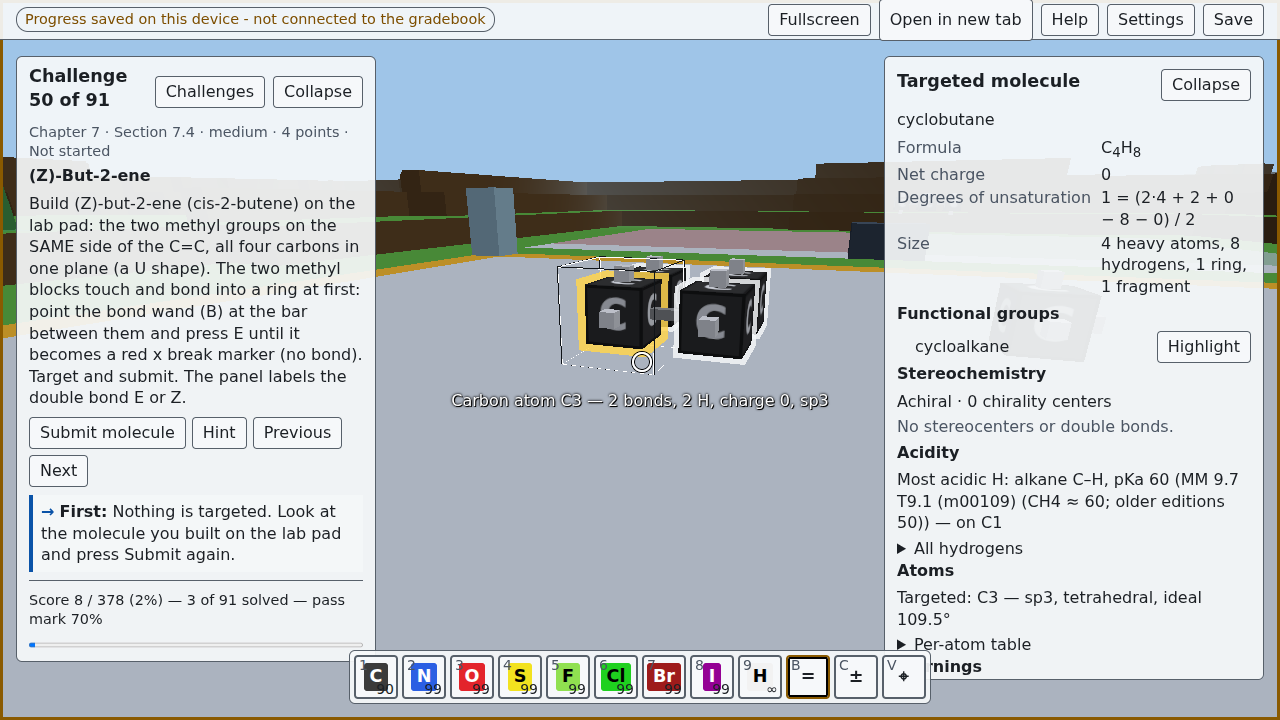
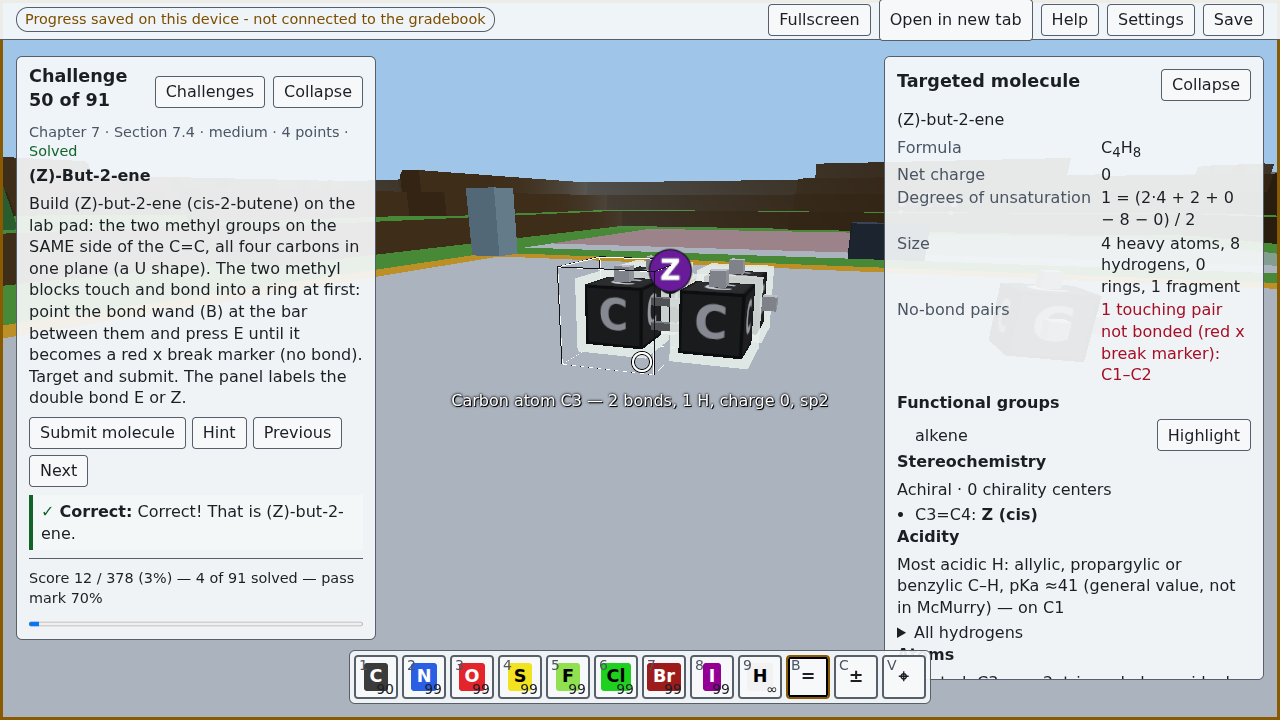
WIP: smoke-test fixes, README and CI in progress
Snapshot of files being edited by the fix agent. Not yet verified.

Claude-Session: https://claude.ai/code/session_01Dujs4MypqNpsyCserQqQVu

diff --git a/src/app/Game.ts b/src/app/Game.ts
@@ -353,8 +353,9 @@ export class Game {
     this.frameMs.push(dt * 1000);
     const inp = this.input.consumeFrame();
     const paused = this.state.paused;
+    let deferred: readonly InputAction[] = [];
     if (!paused) {
-      this.handlePressed(inp.pressed, inp.wheel);
+      deferred = this.handlePressed(inp.pressed, inp.wheel);
       const s = this.settings;
       this.camera.addLook(inp.lookDX * s.sensitivity, inp.lookDY * s.sensitivity * (s.invertY ? -1 : 1));
       this.camera.addLook(-inp.keyLook.yaw * s.turnRate * dt, -inp.keyLook.pitch * 0.6 * s.turnRate * dt);
@@ -384,6 +385,7 @@ export class Game {
     this.updateTarget();
     this.syncComponents();
     this.runAnalyses(ANALYSIS_BUDGET_MS);
+    if (deferred.length > 0) this.handleTargetActions(deferred);
     this.syncBench();
     this.chunks.rebuildDirty(this.world, this.player, this.renderer.profile.chunkRebuildsPerFrame);
     if (this.sceneDirty) {
@@ -511,27 +513,39 @@ export class Game {
     } else if (h.kind === 'hydrogen' && index.atoms.has(h.cell)) {
       component = index.componentOf(h.cell);
     } else {
-      if (h.kind === 'bond') pair = h.pair;
-      const { eye } = this.eyeAndDir();
-      let best = TARGET_RADIUS * TARGET_RADIUS;
-      let bestId: ComponentId | null = null;
-      for (const [id, cells] of index.components()) {
-        for (const c of cells) {
-          const [x, y, z] = parseCellKey(c);
-          const dx = x + 0.5 - eye[0];
-          const dy = y + 0.5 - eye[1];
-          const dz = z + 0.5 - eye[2];
-          const d = dx * dx + dy * dy + dz * dz;
-          if (d < best || (d === best && bestId !== null && id < bestId)) {
-            best = d;
-            bestId = id;
+      if (h.kind === 'bond') {
+        pair = h.pair;
+        // 09 §1.10, §5.5: a bond bar or break marker is targeted through the molecule that contains the pair -- the
+        // previous target when it holds either endpoint (a suppressed pair may join two components), otherwise the
+        // lower-cellIndex endpoint's component -- never a nearer, unrelated molecule.
+        const [a, b] = splitPairKey(h.pair);
+        const ca = index.atoms.has(a) ? index.componentOf(a) : null;
+        const cb = index.atoms.has(b) ? index.componentOf(b) : null;
+        const prev = this.state.target.component;
+        component = prev !== null && (prev === ca || prev === cb) ? prev : (ca ?? cb);
+      }
+      if (component === null) {
+        const { eye } = this.eyeAndDir();
+        let best = TARGET_RADIUS * TARGET_RADIUS;
+        let bestId: ComponentId | null = null;
+        for (const [id, cells] of index.components()) {
+          for (const c of cells) {
+            const [x, y, z] = parseCellKey(c);
+            const dx = x + 0.5 - eye[0];
+            const dy = y + 0.5 - eye[1];
+            const dz = z + 0.5 - eye[2];
+            const d = dx * dx + dy * dy + dz * dz;
+            if (d < best || (d === best && bestId !== null && id < bestId)) {
+              best = d;
+              bestId = id;
+            }
           }
         }
-      }
-      if (bestId !== null) component = bestId;
-      else {
-        const prev = this.state.target.component;
-        component = prev !== null && index.components().has(prev) ? prev : null;
+        if (bestId !== null) component = bestId;
+        else {
+          const prev = this.state.target.component;
+          component = prev !== null && index.components().has(prev) ? prev : null;
+        }
       }
     }
     this.state.setTarget(component, cell, pair);
@@ -607,9 +621,15 @@ export class Game {
     this.highlight.flashRefusal();
   }
 
-  private handlePressed(pressed: readonly InputAction[], wheel: number): void {
+  /**
+   * Every pressed action except mine/place (06 §10.4: those run against the fresh hover in applyActions) and the
+   * two target-dependent ones, `analyze` and `submit`, which are returned and run by handleTargetActions once this
+   * frame's hover, target, components and analyses are refreshed.
+   */
+  private handlePressed(pressed: readonly InputAction[], wheel: number): InputAction[] {
+    const deferred: InputAction[] = [];
     const hud = this.hud;
-    if (!hud) return;
+    if (!hud) return deferred;
     const state = this.state;
     for (const a of pressed) {
       if (state.finished && a !== 'pause' && a !== 'help' && a !== 'debug') continue;
@@ -630,13 +650,7 @@ export class Game {
             this.events.emit('settings:changed', { key: 'showHydrogens', value: next.showHydrogens });
           }
           break;
-        case 'analyze': {
-          const t = state.target.component;
-          if (t !== null) { this.queue.delete(t); this.runOne(t); }
-          this.events.emit('analyze:requested', { component: t });
-          break;
-        }
-        case 'submit': state.submit(); break;
+        case 'analyze': case 'submit': deferred.push(a); break;
         case 'nextChallenge': state.nextChallenge(); break;
         case 'prevChallenge': state.prevChallenge(); break;
         case 'clearSelection': state.clearSelection(); break;
@@ -651,6 +665,27 @@ export class Game {
       for (let i = 0; i < Math.abs(wheel); i++) {
         if (hud.select.active) hud.select.cycle(step);
         else state.cycleSlot(step);
+      }
+    }
+    return deferred;
+  }
+
+  /**
+   * `analyze` (F) and `submit` (Enter) judge the molecule the player is looking at in THIS frame: they run after
+   * updateTarget / syncComponents / runAnalyses, never against the previous frame's target. Otherwise a target that
+   * changed between frames (the player moved, the world was edited -- e.g. through the debug API) is evaluated one
+   * frame stale; after a bench challenge that submitted the product-zone molecule to a pad challenge and answered
+   * "nothing targeted". The panel's Submit button calls state.submit() directly (06 §14.5) and is unaffected.
+   */
+  private handleTargetActions(pressed: readonly InputAction[]): void {
+    const state = this.state;
+    for (const a of pressed) {
+      if (a === 'analyze') {
+        const t = state.target.component;
+        if (t !== null) { this.queue.delete(t); this.runOne(t); }
+        this.events.emit('analyze:requested', { component: t });
+      } else if (a === 'submit') {
+        state.submit();
       }
     }
   }

diff --git a/index.html b/index.html
@@ -10,7 +10,7 @@
   </head>
   <body>
     <a class="skip" href="#canvas">Skip to the game</a>
-    <div id="stage" data-framed="false">
+    <main id="stage" data-framed="false">
       <canvas id="canvas" tabindex="0" role="application" aria-label="OrgoCraft 3D world. Press H for controls, Escape to open the menu, Tab to leave the world. Arrow keys look, W A S D move."></canvas>
       <div id="hud" data-ready="false">
         <div id="toolbar" role="toolbar" aria-label="Game toolbar"></div>
@@ -28,7 +28,7 @@
       <div id="status" class="sr-only" role="status" aria-live="polite" aria-atomic="true"></div>
       <section id="scene-mirror" class="sr-only" aria-label="Scene description"></section>
       <pre id="debug" hidden aria-hidden="true"></pre>
-    </div>
+    </main>
     <div id="no-webgl" hidden role="alert">OrgoCraft needs WebGL, which this browser has turned off. Try another browser, or update your graphics driver.</div>
     <script type="module" src="./src/main.ts"></script>
   </body>

diff --git a/src/ui/quiz-panel.ts b/src/ui/quiz-panel.ts
@@ -144,7 +144,9 @@ export function mountQuizPanel(root: HTMLElement, ctx: HudContext): QuizPanel {
     clearChildren(feedback);
     feedback.dataset['tone'] = tone;
     feedback.append(h('span', { class: 'glyph', 'aria-hidden': 'true' }, glyph), ' ', h('b', null, prefix), ` ${message}`);
-    ctx.announceSticky(`${prefix} ${message}`);
+    // Not announced from here: the challenge panel announces every result exactly once (07 §9.5, §16.1) and this
+    // dialog only mirrors it. A second sticky copy of the same text queued behind the first and delayed every later
+    // polite message by at least one LIVE_POLITE_MS window.
     refreshAttempts();
     if (result.passed) {
       setLocked(true);

diff --git a/README.md b/README.md
@@ -1,0 +1,133 @@
+# OrgoCraft
+
+OrgoCraft is a browser game in the style of Minecraft for a first-semester college organic chemistry course (McMurry, *Organic Chemistry*, chapters 1-11). Students build molecules out of atom blocks on a lab pad, the game analyzes what they built (formula, functional groups, hybridization, R/S and E/Z, acidity) and grades it against a roster of challenges; a reaction bench applies the McMurry reagent set to a reactant and asks the student to build or predict the product. It runs entirely in the browser (Vite, TypeScript, Three.js) with no server and is delivered inside a D2L Brightspace course, either as a plain course file or as a SCORM 1.2 package that reports a score to the gradebook.
+
+Audience: students in Organic Chemistry I and the instructor who uploads it. The instructor-facing steps are in [`docs/INSTRUCTOR.md`](docs/INSTRUCTOR.md); the scope decisions are in [`docs/SCOPE.md`](docs/SCOPE.md).
+
+## Chapter coverage (McMurry 1-11)
+
+| Chapter | Topic | In the game |
+| --- | --- | --- |
+| 1 | Structure and bonding, hybridization, geometry | Per-atom sp/sp2/sp3, geometry and bond angles in the molecule panel; build challenges; quiz questions |
+| 2 | Acids and bases, formal charge | pKa rules, "select the most acidic hydrogen" challenges, the charge tool, conjugate-base challenges |
+| 3 | Alkanes, functional groups, IUPAC names | Functional-group detection, name-to-structure challenges, molecular formula |
+| 3, 4 | Constitutional isomers, cycloalkanes | Isomer-set challenges (C4H10, C5H12, C6H14, C4H8, C4H9Br), degrees of unsaturation |
+| 5 | Stereochemistry at tetrahedral centers | R/S from CIP priorities computed on the 3D grid; enantiomer, diastereomer and meso challenges |
+| 7 | Alkenes, E/Z, Markovnikov | E/Z from grid geometry, alkene naming and stability challenges |
+| 8 | Alkene addition reactions | Reaction bench: HX, X2, halohydrin, hydration, oxymercuration, hydroboration, hydrogenation, hydroxylation, cleavage, radical HBr |
+| 9 | Alkynes | Reaction bench: HX, X2, hydration, hydroboration, Lindlar, Li/NH3, acetylide alkylation |
+| 10 | Organohalides | Naming and preparation challenges |
+| 11 | SN1, SN2, E1, E2 | Reaction bench decision table; predict-product and choose-reagent challenges |
+
+Aromaticity, resonance, conformations, spectroscopy and arrow-pushing mechanisms are out of scope for v1. Odd-membered rings cannot be built on a cubic lattice, so cyclopropanation and epoxidation products are excluded from the roster.
+
+Two touching atom blocks bond automatically. The bond wand cycles a bond through single, double, triple and *no bond* (a red x break marker between the blocks), which is how substituents on the same side of a Z-alkene stay apart. See `docs/design/09-amendment-no-bond.md`.
+
+## Controls
+
+The single-letter keys work only while the 3D view (the canvas) has focus; Tab leaves it. All keys except Escape, Tab and F3 can be remapped in Settings.
+
+| Action | Keys |
+| --- | --- |
+| Move, jump, sprint | W A S D, Space, Shift |
+| Look | Mouse (captured, or drag when capture is unavailable), arrow keys |
+| Mine / remove a block | Q or left button |
+| Place an atom, use the current tool, open the bench | E or right button |
+| Element slots (C N O S F Cl Br I, H) | 1-9 |
+| Bond wand, charge tool, select tool | B, C, V |
+| Cycle hotbar slots (or select-mode candidates) | Mouse wheel, `[` `]` |
+| Analyze the targeted molecule (spoken summary) | F |
+| Submit the current challenge | Enter |
+| Next / previous challenge | `.` / `,` |
+| Hint, challenge list, help, reaction bench | I, L, H, R |
+| Show or hide hydrogens | T |
+| Clear the selection (select mode) | Backspace |
+| Pause menu, release the mouse | Escape |
+| Debug overlay | F3 |
+
+The HUD panels, dialogs and the pause menu are keyboard-operable; two live regions announce results and tool changes to screen readers, and a scene description mirrors the targeted molecule as text.
+
+## Running locally
+
+Requirements: Node 22 and npm.
+
+```sh
+npm install
+npm run dev        # Vite dev server, open the printed URL
+```
+
+Append `?debug=1` to the URL to expose `window.__orgocraft` (teleport, place, wand, goToChallenge, state) for scripting.
+
+## Testing
+
+```sh
+npm run typecheck  # tsc --noEmit, strict
+npm test           # vitest: chemistry, reactions, content, world, LMS adapter, packaging
+```
+
+The smoke test drives the *built* game in headless Chromium through `window.__orgocraft`, in standalone mode and inside a fake SCORM 1.2 wrapper, and fails on any console error, uncaught exception, failed step, or serious/critical axe-core violation. It serves `dist/` under a deep D2L-style path so the relative-base build is exercised.
+
+```sh
+npm run build
+npm run smoke
+```
+
+Chromium is located through `CHROMIUM_PATH` (or `CHROME_PATH`), then `$PLAYWRIGHT_BROWSERS_PATH/chromium-*`, then `/opt/pw-browsers/chromium-*` and `~/.cache/ms-playwright`. To install one with the pinned Playwright version: `npx playwright install chromium`. The run writes `test-results/smoke.png` and `docs/screenshots/smoke.png`.
+
+## Building and packaging for D2L
+
+```sh
+npm run build          # dist/ with relative asset paths
+npm run check:paths    # fails if anything in dist/ is referenced by an absolute path
+npm run package:d2l    # release/orgocraft-v<version>-d2l.zip    (Path A: course file, no grade)
+npm run package:scorm  # release/orgocraft-v<version>-scorm12.zip (Path B: SCORM 1.2, grade item)
+npm run release        # the four steps above
+```
+
+The version, pass mark and the list of disabled challenges come from `orgocraft.config.json`. Uploading the zips into Brightspace, creating the grade item and what the score means are described step by step in [`docs/INSTRUCTOR.md`](docs/INSTRUCTOR.md). CI (`.github/workflows/build.yml`) runs typecheck, tests, build, path check, both packages and the smoke test on every push and attaches the zips to a GitHub release on a `vX.Y.Z` tag that matches the config version.
+
+## Folder layout
+
+```
+index.html                 static page skeleton (canvas, HUD containers, live regions)
+orgocraft.config.json      version, pass mark, disabled challenges
+src/
+  main.ts                  entry point: WebGL check, Game start
+  app/                     Game (composition root and frame loop), State (UI-facing state), Settings, events
+  chem/                    pure chemistry: SMILES, graph, analysis, naming, stereo (CIP, R/S, E/Z), acidity, embedding
+  reactions/               pure reaction bench: additions, alkynes, substitution/elimination, oxidation, radicals
+  content/                 molecule library, challenge roster, reagent cards, acceptance and feedback (JSON + TS)
+  world/                   voxel world, chunks, mesher, raycast, molecule index (bonds, charges, suppressed pairs)
+  player/                  physics and first-person camera
+  input/                   key map, input manager, pointer lock and look modes
+  render/                  Three.js renderers: chunks, atoms, bonds and break markers, ghosts, highlights, overlays
+  ui/                      HUD: panels, hotbar, quiz, bench, pause menu, help, settings, live regions, strings, CSS
+  lms/                     SCORM 1.2 adapter, progress model, local storage
+  util/                    noise, PRNG, throttle, vec3
+test/                      vitest suites, mirroring src/
+scripts/                   smoke.mjs, package-d2l.mjs, package-scorm.mjs, check-relative-paths.mjs
+scorm/                     imsmanifest template and the SCORM 1.2 XSDs
+public/                    static assets copied into dist/
+tools/reference/           Python reference implementations used to derive the chemistry fixtures
+docs/                      SCOPE.md, INSTRUCTOR.md, design/, research/, screenshots/
+```
+
+## Design documents
+
+The design set in `docs/design/` is the specification the code follows; `09` overrides the others where they conflict.
+
+| File | Covers |
+| --- | --- |
+| `00-contracts.md` | Shared types and the frozen module contracts |
+| `01-work-packages.md` | Work package split and file ownership |
+| `02-chemistry-core.md` | SMILES, graphs, hydrogens, functional groups, hashing, isomorphism, embedding |
+| `03-stereo-acidity-hybridization.md` | CIP, R/S and E/Z on the grid, hybridization, formal charge, pKa engine |
+| `04-reaction-bench.md` | Reagent set, reaction rules, bench flow |
+| `05-content.md` | Molecule library, challenge roster, acceptance rules, feedback text |
+| `06-engine.md` | World, player, input, rendering, game loop, debug API, smoke test steps |
+| `07-ui.md` | HUD, panels, dialogs, focus and live-region policy, strings |
+| `08-deployment.md` | SCORM adapter, persistence, packaging, instructor guide, CI |
+| `09-amendment-no-bond.md` | "No bond" between touching blocks: index, wand cycle, break marker, content |
+| `10-integration-notes.md` | Integration notes and deviations recorded during assembly |
+
+Research notes behind those decisions are in `docs/research/`.

diff --git a/docs/design/10-integration-notes.md b/docs/design/10-integration-notes.md
@@ -143,3 +143,27 @@ Each item names the package that raised it.
 - Contract change request: 04 §9.1 rows 5 and 13: the `suppressedPairs` ids are given in the expected-SMILES atom order; in the engine's product numbering (reactant order + appended atoms) they are [[1,6]] and [[2,4]]. Either restate them in engine ids or say they are SMILES-order ids.
 - Contract change request: 00-contracts §5 / 04 §1: fold `Decision` (adds `warnings`, `orientation`), `RuleResult`, `RuleFn`, `RuleOpts` and the `REAGENT_CARDS` / `CARD_RULE` / `defaultCard` registry exported by src/reactions/react.ts into the contract table; WP-05 should validate reagents.json against `REAGENT_CARDS` (card equality) rather than only REAGENT_IDS.
 - Contract change request: 04 §7.5 roster-agreement check: confirm (unresolved question 2) that for SUBST_ELIM cards an `expected` match against `major ∪ minor` is accepted (row 62 / ch11-sn2-inversion), since the engine reports E2 major for secondary halide + NaOH.
+
+## From WP-11 (integration, smoke, CI)
+
+- `Game.ts` frame order (06 §14.2): `submit` (Enter) and `analyze` (F) are no longer run inside `handlePressed`
+  before physics; `handlePressed` returns them and `handleTargetActions` runs them after `updateTarget` /
+  `syncComponents` / `runAnalyses` of the same frame. Reason: `state.submit()` read the previous frame's target, so
+  a target that changed between frames (player moved, world edited through the debug API) was judged one frame
+  stale -- after a bench challenge the product-zone molecule was submitted to a pad challenge and the result was
+  `nothing-targeted` (smoke 17a). The panel button still calls `state.submit()` directly (06 §14.5).
+- `Game.updateTarget` (06 §10.3): a `bond` hover (bar or break marker) targets the component containing the pair
+  (the previous target when it holds either endpoint, else the lower-cellIndex endpoint's component) instead of the
+  nearest component; the "nearest within 8 blocks" rule applies only when nothing hovered belongs to a molecule.
+  Follows 09 §1.10 / §5.5 (the pair's labels and `TargetState.suppressed` are those of the pair's own molecule).
+- `quiz-panel.ts` (07 §10.2): the quiz dialog no longer announces the result; the challenge panel is the single
+  announcer (07 §9.5, §16.1). The duplicate sticky copy queued behind the first and delayed every later polite
+  message by a LIVE_POLITE_MS window (smoke 14 was timing-dependent).
+- `scripts/smoke.mjs` step 17a: the `#status` "removed: the atoms touch" check runs after the three C1-C2 wand calls
+  and before the C3-C4 wand call. 09 §5.10 lists it after that call, but polite messages are latest-wins within
+  LIVE_POLITE_MS (07 §16.1), so "Bond C3-C4 is now double" would always replace it. 09 §5.10 should move the check.
+- `scripts/smoke.mjs` step 16: axe-core is a devDependency and the step fails (never skips) when it is missing.
+  `index.html`: `#stage` is a `<main>` (07 §2.1 shows a `div`) so `#toolbar` and `#hotbar` sit inside a landmark
+  (axe `region`, moderate); the live regions and `#dialogs` are unchanged.
+- `scripts/smoke.mjs`: `CHROMIUM_PATH` (alias `CHROME_PATH`) names the browser binary; CI installs it through the
+  `playwright` devDependency (`npx playwright install --with-deps chromium`, 08 §12) under `PLAYWRIGHT_BROWSERS_PATH`.
